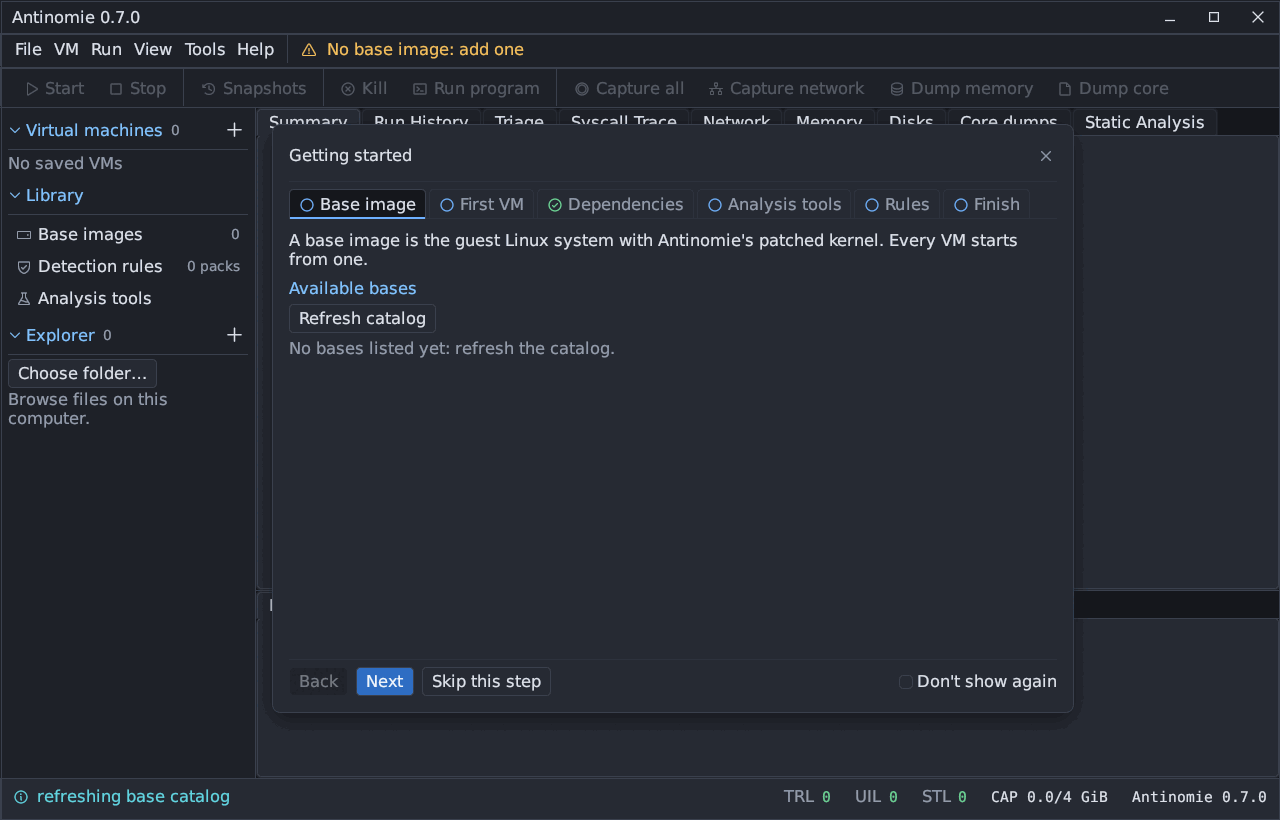
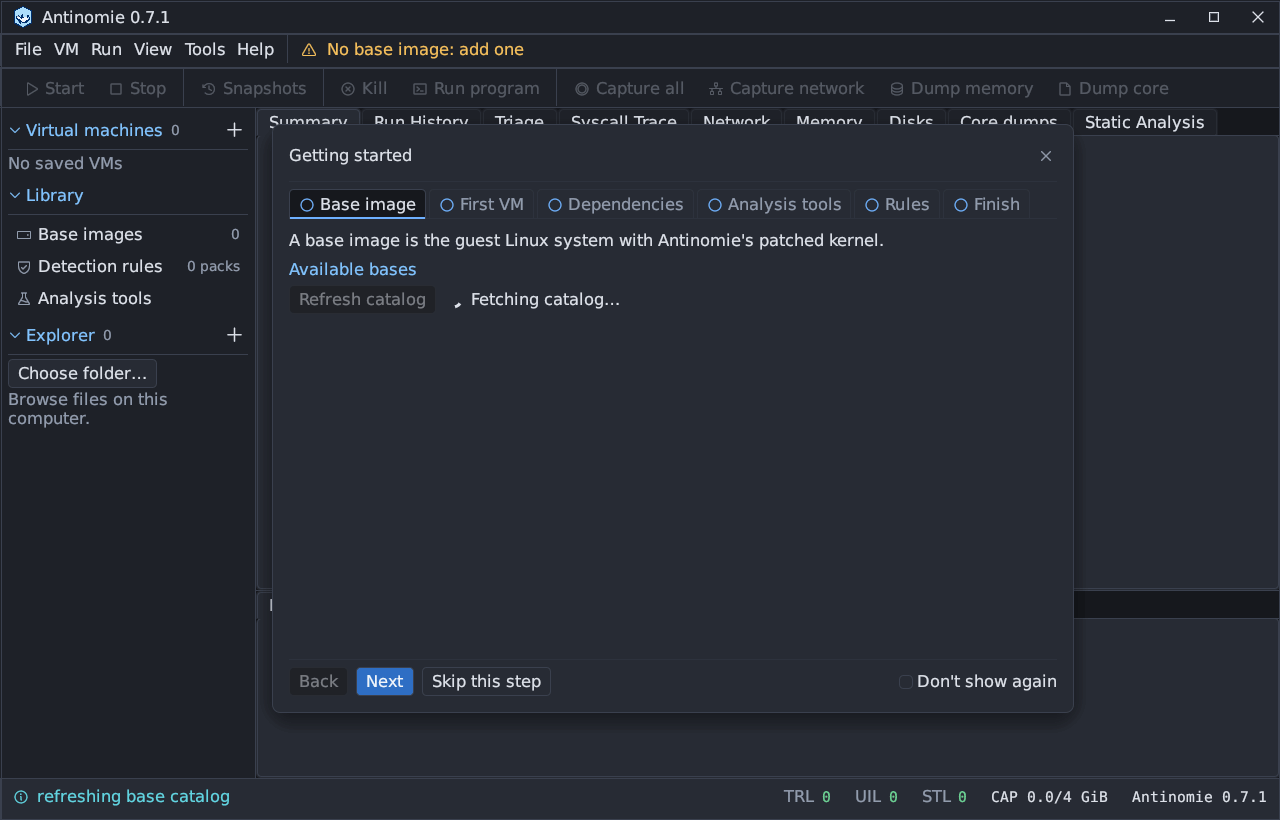
Refresh the README screenshots for 0.7.1
Getting started showed the 0.7.0 interface and the earlier brand; take it
again from the 0.7.1 release build on an empty data directory. Render the
activity graph again from its fixture, which now draws the overview
ruler's handles. Note in CONTRIBUTING how both are made.

Changed region(s): [[0.2188, 0.3049, 0.4688, 0.4573], [0.6875, 0.2744, 0.8125, 0.3049], [0.0, 0.0, 0.125, 0.0305]]

diff --git a/CONTRIBUTING.md b/CONTRIBUTING.md
@@ -432,7 +432,24 @@ the archive's build provenance and publishes the GitHub release. Its notes are
 the opening paragraph of the version's changelog section, a link to the full
 section and the checksum. Before tagging, also update the README's version
 note and "What's in" section, the version line of `docs/usage.md` and any
-screenshot whose UI changed. Bases are built and uploaded
+screenshot whose UI changed.
+
+The README screenshots are 1280×820 captures of an X display.
+`assets/screenshots/getting-started.png` is the release build on an empty data
+directory (`antinomie --data-dir` pointing at a new folder) while the base
+catalog loads. `assets/screenshots/activity-graph.png` is the graph's
+synthetic fixture, which opens its own window:
+
+```bash
+cd src/antinomie/monitor
+ANTINOMIE_QA_SCENE=mid ANTINOMIE_QA_THEME=dark \
+  cargo test --release --locked -p antinomie-monitor-ui --bin antinomie-monitor \
+  native_graph_fixture -- --ignored
+```
+
+Other `native_*_fixture` tests (Stealth, Static Analysis, Run History, the
+debugger and more) take the `ANTINOMIE_QA_*` variables listed at the top of
+their files. Label fixture screenshots as synthetic data where they are shown. Bases are built and uploaded
 separately (see the base distribution notes).
 
 Releases never carry the **full pack** (every managed tool, pre-downloaded):
